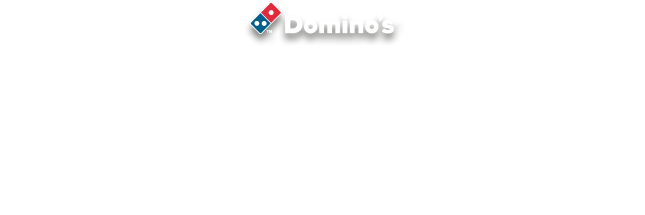
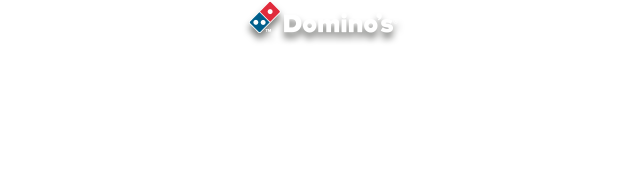
8
asdfghjk

Changed region(s): [[0.3733, 0.0269, 0.6221, 0.2151]]

diff --git a/css/indepth.css b/css/indepth.css
@@ -613,13 +613,17 @@
 }
 
 .indepth_result_cont{
-	width: 645px;
-	height: 215px;
-	margin: auto;
-	display: table;
-	background-image: url(../images/marco_dominos.png);
-	background-repeat: no-repeat;
-}
+		width: 644px;
+		height: 105px;
+		margin: auto;
+		background-image: url(../images/marco_dominos.png);
+		background-repeat: no-repeat;
+		background-position: center top;
+		background-size: 644px 100%;
+		padding: 0 20px;
+		padding-top: 30px;
+		display: table;
+	}
 
 #indepth_return{
 	width: 30px;
@@ -821,7 +825,7 @@
 	
 	.indepth_result_cont{
 		width: 450px;
-		height: 210px;
+		height: 105px;
 		margin: auto;
 		background-image: url(../images/marco_dominos.png);
 		background-repeat: no-repeat;
@@ -830,7 +834,6 @@
 		padding: 0 20px;
 		padding-top: 30px;
 		display: table;
-		
 	}
 	
 	.indepth_pronostico_cont{

diff --git a/js/indepth.js b/js/indepth.js
@@ -531,7 +531,7 @@ function finish_test(){
 
   	if(aciertos>=11 && aciertos<=15){
 	  	aficionado="";
-	  	msg="¡Hasta pareces aficionado del Cholo! Con tantitas ganas, tuviste";
+	  	msg="¡Hasta pareces aficionado del Cholo! Con tantitas ganas";
   	}
 
   	if(aciertos>=16){
